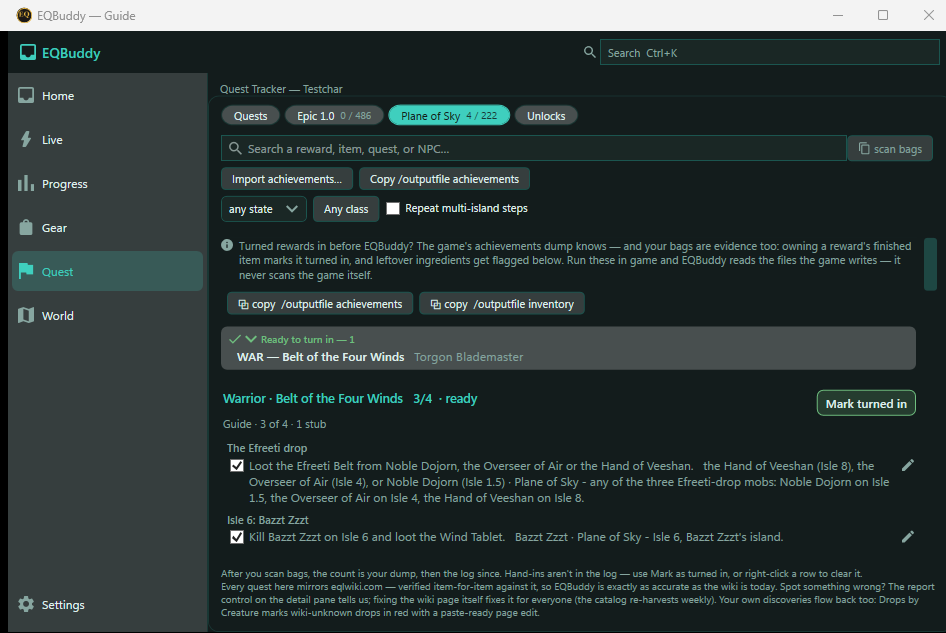
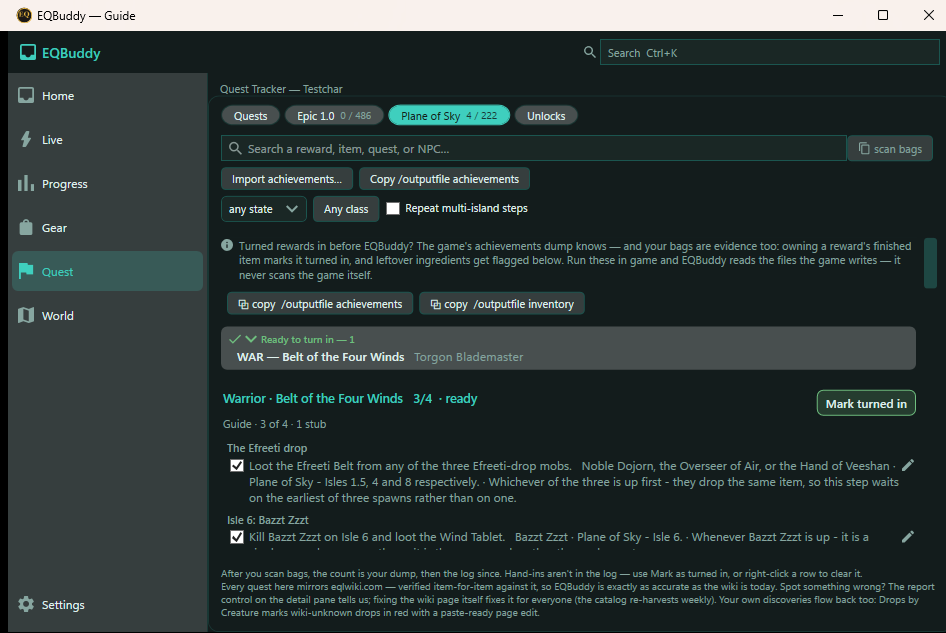
guides: WHEN is a clause on the row, its reasoning moves to HOW on the hover

diff --git a/CLAUDE.md b/CLAUDE.md
@@ -518,7 +518,9 @@ they live on `legacy-v1`.)
 | Spawn points / timers | `Core/SpawnPointLedger.cs`, `Core/SpawnTimers.cs` |
 | Wiki lookups + contribution packs | `Core/EqlWikiMobs.cs`, `Core/WikiContribution.cs` |
 | The widget itself | `EQBuddy/MainWindow.xaml.cs` (~4.5k lines — the hotspot) |
-| A guide's stages, objectives, and how complete OUR data is | `Core/GuideCatalog.cs` + `Core/Data/GuideCatalog.json` — CURATED, never auto-written. `Validate()` is lock 4a executable: an `Authored` objective answers who+where+what and cites a source, a `Stub` says what is missing, a `RewardKey` is one the Sky checklist already owns. Nothing renders it yet (P1a) |
+| A guide's stages, objectives, and how complete OUR data is | `Core/GuideCatalog.cs` + `Core/Data/GuideCatalog.json` — CURATED, never auto-written. `Validate()` is lock 4a executable: an `Authored` objective answers **all six questions — who, what, where, when, why, how** (David, 2026-09-09) and cites a source, a `Stub` says what is missing, a `RewardKey` is one the Sky checklist already owns |
+| Turning a guide into the rows every surface draws | `UI.Shared/GuideChecklistProjection.cs` — a guided reward's item rows are REPLACED by its objectives; an unguided one comes back the same object (lock 5). `UI.Shared/GuidePresentation.cs` owns every word, and **each of the six is drawn in exactly one place**: WHAT is the row title, who·where·when the row's line, why+how the hover (the phone has no hover, so they ride the row — trap 35) |
+| Where a guide step's tick lives | `UI.Shared/GuideProgressRouter.cs` — THREE homes, one writer each: `SkyTurnIn` (a `RewardKey`), **`SkyItem`** (an acquire-shaped step naming exactly one of ITS reward's checklist rows → that row's own box, so the loot auto-tick lights it), else the guide ledger. Group-scoped: one class's Wind Rune is never another's |
 | Quest surface (all four tabs) | `EQBuddy/QuestsView.xaml.cs`. `QuestsWindow` is a thin host; `QuestsRoom` is the shell's **Guide** room (label only — the wire key is still `quests`). **Both build their own instance** |
 | What the widget's right-click menu shows minimized | `UI.Shared/WidgetMenuPolicy.cs` — the ≤4 lock. `Tag="expanded"` in `MainWindow.xaml` hides the rest; `WidgetMenuTests` reads the XAML against the list |
 | The Evolved shell | `EQBuddy/ShellWindow.xaml.cs` + one `*Room.cs` per room; `UI.Shared/ShellPages.cs`, `ShellLayout.cs`. Player door: widget context-menu `Guide…` through `ShellHost.OpenGuideDoor` (opens the Guide room, and recovers a shell the ✕ took); `EQBUDDY_SHELL` is the review hook |
